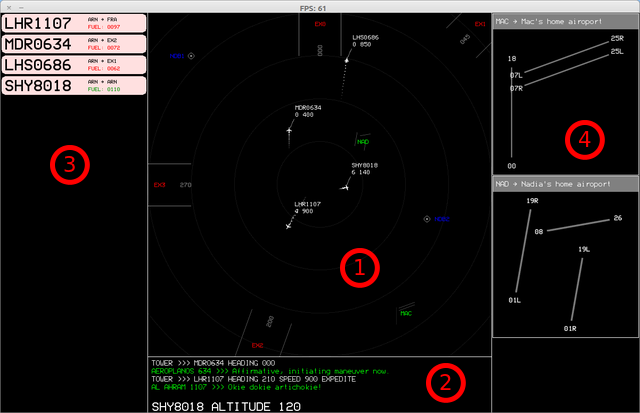
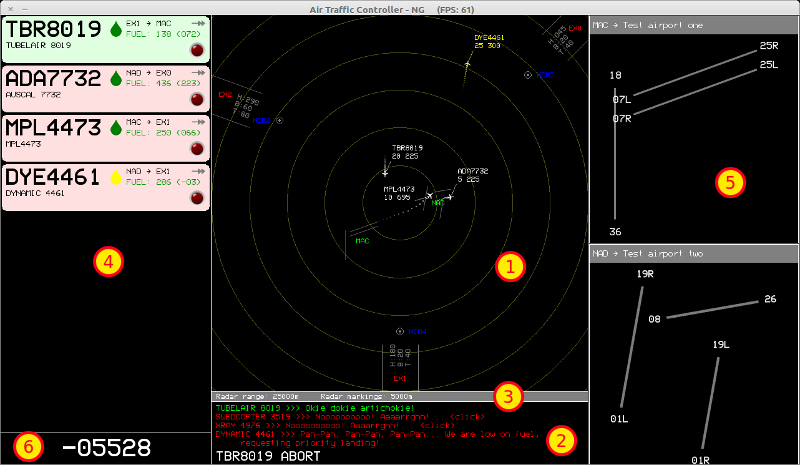
Reviewed documentation, updating screenshots (fixes #32) and adding a page on flight strips (closes #36).

diff --git a/engine/commander.py b/engine/commander.py
@@ -446,8 +446,8 @@ class CommandLine(object):
         # Font size calculations
         small_size = S.CLI_RECT.h * 0.9 / \
                      (S.CONSOLE_LINES_NUM + 1.0 / S.CONSOLE_FONT_SIZE_RATIO)
-        large_size = U.rint(small_size / S.CONSOLE_FONT_SIZE_RATIO)
-        small_size = U.rint(small_size)
+        large_size = int(small_size / S.CONSOLE_FONT_SIZE_RATIO)
+        small_size = int(small_size)
         self.large_f = pygame.font.Font(S.MAIN_FONT, large_size)
         self.small_f = pygame.font.Font(S.MAIN_FONT, small_size)
         self.max_large_line_length = self.__get_max_line_length(self.large_f)

diff --git a/engine/challenge.py b/engine/challenge.py
@@ -30,8 +30,8 @@ class Challenge(object):
     Docstring.
     '''
 
-    DELAY = 1                     # delay before the first plane appears
-    PLANE_NUMBER_START = 1        # begin game with X planes
+    DELAY = 3                     # delay before the first plane appears
+    PLANE_NUMBER_START = 3        # begin game with X planes
     MOD_PERIOD = 60               # modify frequency every X seconds
     FREQ_START = 120              # new plane every X seconds
     FREQ_STEP = -3                # step of frequency modification

diff --git a/docs/play/interface.rst b/docs/play/interface.rst
@@ -3,27 +3,34 @@
 The game interface
 ==================
 All the interaction with the game happens through the command console. The game
-screen is organised in four main areas:
+screen is organised in areas:
 
 .. image:: /_static/game-interface.png
 
 **radar screen** (1)
-  You can see here the aeroplanes, airports, beacons and gates which are used
-  during the game
+  You can see here the aeroplanes, airports, beacons and gates that fall within
+  the aerospace you are controlling.
 
 **command console** (2)
   Here you issue commands either to the game engine (for getting help, pausing,
   quitting...) or to aeroplanes (to alter they course or perform special
-  operations)
+  operations).
 
-**flight strips** (3)
+**status bar** (3)
+  The status bar displays information on your radar, such as the range of it and
+  the amount of space between radar markings.
+
+**flight strips** (4)
   Here you have a list of planes currently under your control, with some data
-  which is not available on the main radar screen
+  which is not available on the main radar screen.
 
-**airport maps** (4)
-  Here you have a detailed map of the map's airports: airports are also
-  visible on radar screen, but in this game area they are big enough for you
-  to identify individual runways.
+**airport maps** (5)
+  Here you have a detailed map of the airports located in your aerospace:
+  airports are also visible on radar screen, but in this part of the game
+  interface they are big enough for you to identify individual runways.
+
+**score** (6)
+  The overall score of the current game is displayed here.
 
 The radar screen
 ----------------
@@ -35,7 +42,7 @@ controlling. The typical elements you will find in it are:
 
 #. **Radar targets** (aeroplanes), with their flight number, altitude and speed
    indicated in the label next to them.
-#. **airports**, identified by their IATA code.
+#. **Airports**, identified by their IATA code.
 #. **Gates**, which are the entry and exit points for the aeroplanes in the
    aerospace.
 #. **Beacons**, which are points whose location is known to aeroplane pilots,
@@ -56,14 +63,33 @@ The bottom, larger line is the interactive prompt where you compose the command
 (press :kbd:`Enter` to attempt command execution). The smaller lines above that
 show the history of the past commands, and what happened once executed.
 
+The status bar
+--------------
+
+.. image:: /_static/statusbar.png
+
+The status bar report some scale information on your radar settings. These are:
+
+- *The radar range*, defined as the distance between the location of your radar
+  (the centre of the radar screen) and the edge of the aerospace. Note that
+  however your radar will be able to pick up signal in the four corner on the
+  aerospace [which are beyond such range] too.
+- *The distance between radar markings*, defined as the distance between any
+  radar marking on screen and the one closest to it. Note that the spacing of
+  radar markings and their aspect can be altered via :doc:`specific settings
+  <settings>`.
+
+
 The flight strips
 -----------------
 
 .. image:: /_static/flight-strips.png
 
-The flight strips show some data that is not available on the main radar screen,
-such the departure and destination, or the amount of fuel still available
-onboard the aeroplane).
+The flight strips show data about each flight that might not be available
+directly on the main radar screen. The purpose of the flight progress strips is
+that of helping the air traffic controller (that's you!) to establish a routine
+for keeping track of all the flight. Read more on the :doc:`flight progress
+strip page<flight-strips>`
 
 The airport maps
 -----------------
@@ -73,3 +99,11 @@ The airport maps
 The main function of the airport maps is to give you a detailed view of the
 available runways, so that you can decide which ones to use for takeoffs and
 landings.
+
+The score
+---------
+
+.. image:: /_static/score.png
+
+The score is updated live throughout the game. Please refer to the :doc:`scoring
+page<scoring>` for more information on how score is calculated.

diff --git a/docs/play/flight-strips.rst b/docs/play/flight-strips.rst
@@ -2,4 +2,81 @@
 
 Flight progress strips
 ======================
-Stub.
+
+Flight progress strips are what is used by air traffic controllers to keep track
+of the aeroplanes they are following on radar. While the aeroplane images and
+their tags on the radar screen give positional information on each aircraft (and
+are therefore essential for keeping separation), the flight progress strips
+provide information useful for **planning the course** of each aeroplane.
+
+Anatomy of a strip
+==================
+
+Flight strips are very dense when it comes to amount of information displayed.
+
+.. image:: /_static/flight-strip-anatomy.png
+
+Here is some details on each information on the strip. In clockwise order:
+
+**Flight number**
+
+  Flight numbers are the unique identifier of each flight. The first three
+  letters identify the air carrier using its :term:`ICAO` code.
+
+**Fuel indicator**
+
+  The fuel indicator is a quick way to know if the amount of fuel onboard is
+  adequate to complete the flight plan. The colour of the drop follows the usual
+  green / yellow / red scheme, in which green means "more than enough", yellow
+  "just enough" and red "dry tank".
+
+**Flight plan**
+
+  The flight plan shows the point of origin and the destination of the
+  aeroplane. In other words: your task is to guide your plane safely to the
+  point indicated by the second alphanumeric group.
+
+**Expedite indicator**
+
+  Aeroplane may be instructed to perform certain :doc:`commands<plane-commands>`
+  (such altering speed, altitude or heading) ad double their normal rate by
+  using the ``EXPEDITE`` flag and at the cost of burning fuel at double the
+  speed. If an aeroplane is performing a manoeuvre at such rate, this arrow
+  indicator will lit in orange.
+
+**Fuel before emergency**
+
+  If you familiarised yourself with the way :doc:`fuel` is handled in ATC-NG,
+  you will know that when the fuel onboard the aeroplane is less than twice that
+  needed to complete its task, the pilot will declare a fuel emergency,
+  requesting a priority landing. The number between parenthesis shows how many
+  fuel units can still be used before the aeroplane enters that emergency.
+
+  Please note that this number will decrease very quickly if the plane is
+  moving away from its destination, and will remain almost fixed if the plane
+  is flying towards it.
+
+**Master alarm indicator**
+
+  This indicator will lit in bright red in case the plane is facing a major
+  problem, such as an imminent collision or having ran out of fuel.
+
+**Onboard fuel**
+
+  This number indicates how much fuel is still available on the aeroplane. The
+  way fuel is handled in ATC-NG is explained in details in the :doc:`fuel`
+  section of the manual.
+
+**Command being executed**
+
+  If the aircraft the strip is referring to is presently executing a command,
+  here is where that command will be shown. Long commands are reported here
+  using their shorthand notation. You may learn more about the alternative
+  spelling of commands in the :doc:`aeroplane commands<plane-commands>` section
+  of the manual.
+
+**Call sign**
+
+  If the air carrier has been assigned a :term:`call sign`, that is how the
+  pilot will identify themselves over radio (on the console). This is were you
+  can check what call sign the pilot will use.

diff --git a/docs/glossary.rst b/docs/glossary.rst
@@ -24,6 +24,14 @@ Glossary
       generating the so called :term:`gates<gate>`. All aeroplanes that are not
       on ground must enter and exit the aerospace from them.
 
+   Call sign
+      In broadcasting and radio communications, a call sign is a unique
+      designation for a transmitting station.
+
+      in ATC-NG call signs are used for radio (console) communication. For
+      example British Airways flight 1234 will identify itself as "Speedbird
+      1234".
+
    Flight level
       In ATC-NG, a flight level is the standard nominal altitude of an aircraft
       above the sea level, expressed in hundreds of metres. For example FL 05
